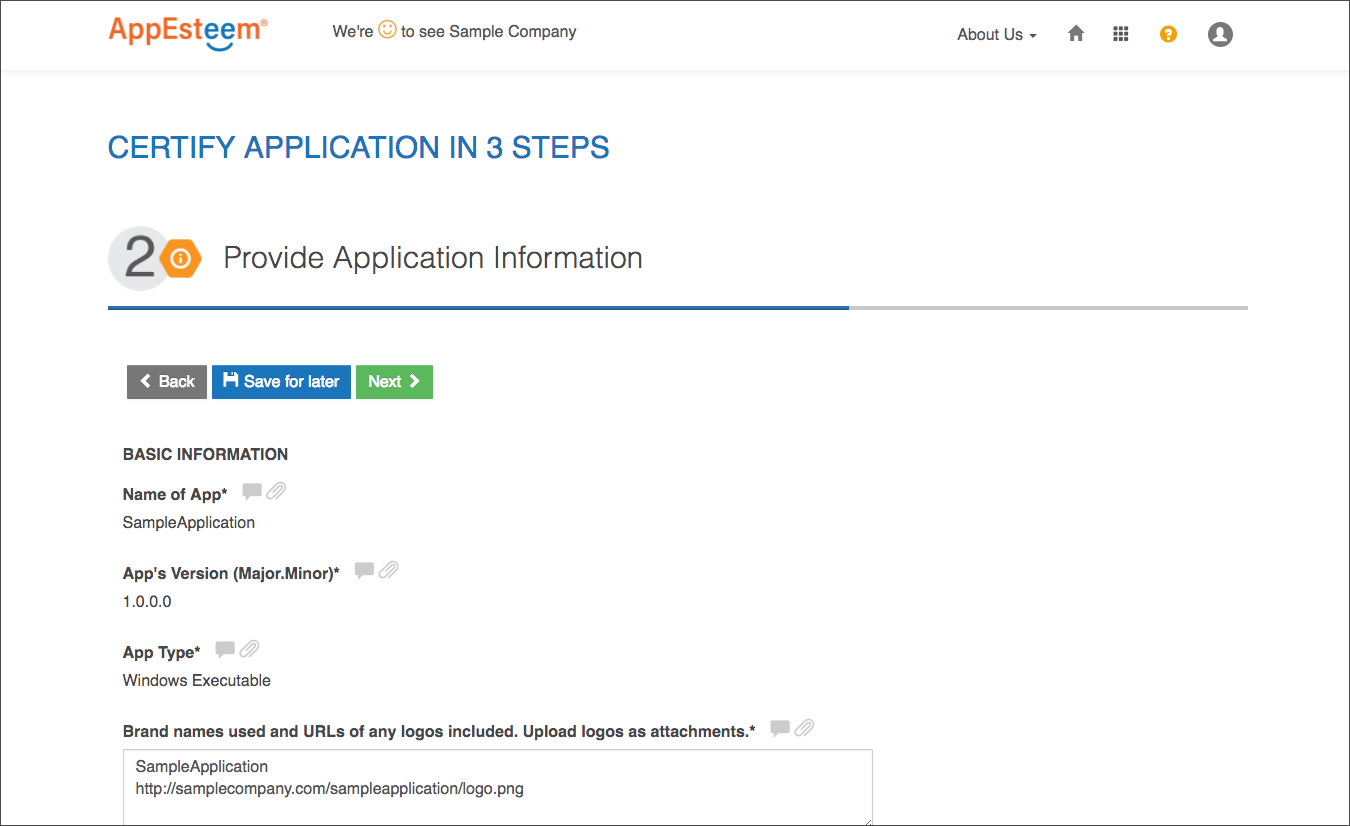
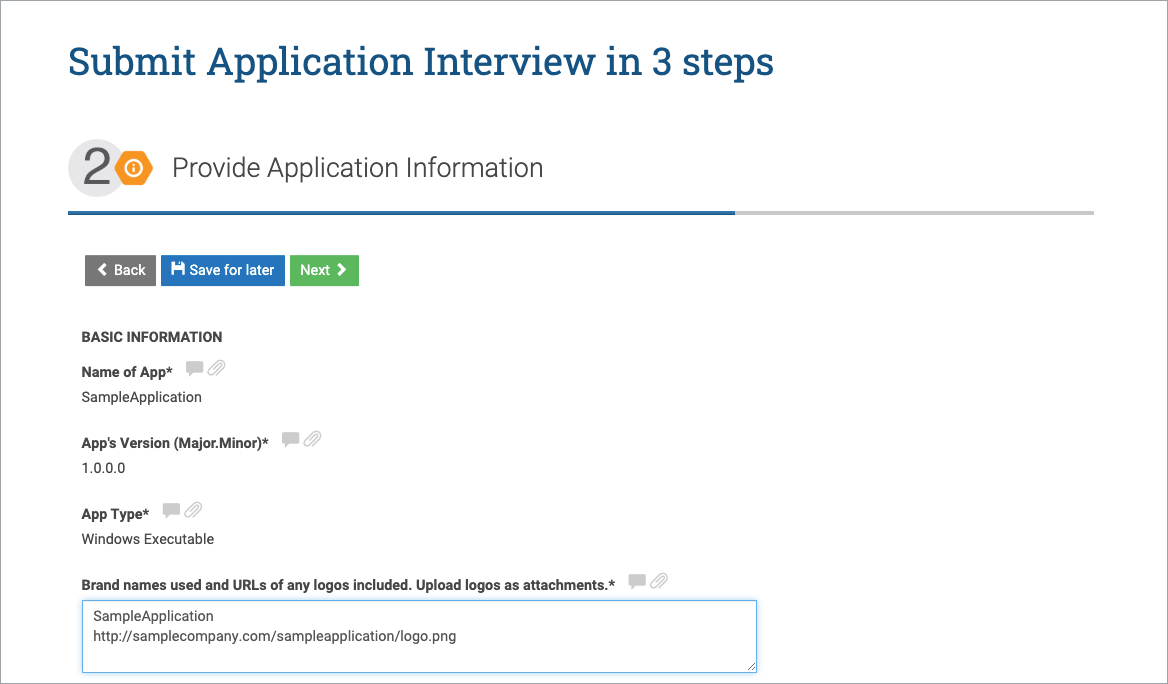
update company and app registration instructions

diff --git a/registerapplication.md b/registerapplication.md
@@ -2,7 +2,7 @@
 
  Registering an application with AppEsteem allows us to inform you and others with information related to your application.
 
-1. There are two ways to start the application registration. If this is your first application click the “Register an App” button on the portal home page.
+1. There are two ways to start the application registration. If this is your first application click the **Register an App** button on the portal home page.
 
     ![AppEsteem Portal Home page](./media/registerApplication_1.png)
 
@@ -12,19 +12,19 @@
 
     ![Application List](./media/registerApplication_3.png)
 
-2. Enter Application Name, Application Latest Version, Application Landing Page and Application Type.
+2. Fill in Application Information fields.
 
     ![Register Application form](./media/registerApplication_4.png)
 
-3. Next step depends on the commitment level of your company. If your company has "Explore" commitment level, you will see four categories of service. Choose one of the  Premium Support by clicking the Select button under the PREMIUM SUPPORT or under PREMIUM SUPPORT AND APP JAIL SERVICES. Click the **Register Application** to continue registration.
+    if you checked the *"Is this app a white label distributed by another company?"* checkbox, you would need to provide Distributing Company Name. 
+
+     ![Register Application form](./media/registerApplication_14.png)
+
+3. Choose one of the level of Services by clicking the **Select** button under the PREMIUM SUPPORT,  or under BASIC SUPPORT, or under INDIVIDUAL REVIEW. Click the **Register Application** to continue registration.
 
     ![Category of Service](./media/registerApplication_5.png)
 
-   If your company has "Committed" commitment level, you will see only one category of service - PREMIUM SUPPORT AND APP JAIL SERVICES. Click the **Register Application** button to continue registration.
-
-    ![Premium Support](./media/registerApplication_6.png)
-
-4. Request Application Certification. Upload application executables, enter Version Change Log and click the **Next** button
+4. Submit application interview. Upload application executables, enter Version Change Log and click the **Next** button
 
     ![Certify Application Step 1](./media/registerApplication_8.png)
 
@@ -38,7 +38,7 @@
 
     ![Certify Application Step 3](./media/registerApplication_11.png)
 
-    **NOTE:** At any step of the Request Application Certification, you can click the **Save for later** button. To resume the Certification later you would need to go to the Application List page and click the *Submit App for Review* link for the correspondent application version.
+    **NOTE:** At any step of the Submit Application Interview, you can click the **Save for later** button. To resume the Application Interview submission later you would need to go to the Application List page and click the *Submit App for Review* link for the correspondent application version.
 
     ![Application List](./media/registerApplication_13.png)
 

diff --git a/registercompany.md b/registercompany.md
@@ -6,15 +6,15 @@ This page will guide you through the creation of a company on AppEsteem's custom
 
     ![Company Information Welcome page](./media/registerCompany1.png)
 
-2. Enter the company Name, Website, Phone and Major Brands
+2. Fill in company information and contact fields and click on the **Register** button.
 
     ![Company Registration form](./media/registerCompany2.png)
 
-3. Choose Commitment Level and click the Register button. Upon successful registration you will be navigated to the AppEsteem Portal page.
+3. Upon successful registration you will be navigated to the AppEsteem Portal page.
 
     ![Choosing your Commitment Level ](./media/registerCompany3.png)
 
-4. Next step is to sign the Master Services Agreement. Under Agreements click on the *“Agree to the Master Services Agreement”*
+4. Next step is to sign the Master Services Agreement. Under Agreements click on the **Agree to the Master Services Agreement** link.
 
     ![Signing Agreements](./media/agreeCertificationAgreement_1.png)
 
@@ -22,6 +22,6 @@ This page will guide you through the creation of a company on AppEsteem's custom
 
     ![Sign Sample Agreement](./media/agreeCertificationAgreement_2.png)
 
-6. Upon successfully signing the Master Services Agreement you will see the check mark next to the *"Agree to the Master Services Agreement”* link on the Portal page.
+6. Upon successfully signing the Master Services Agreement you will see the check mark next to the **Agree to the Master Services Agreement** link on the Portal page.
 
     ![Completed Signing Agreements](./media/agreeCertificationAgreement_3.png)
